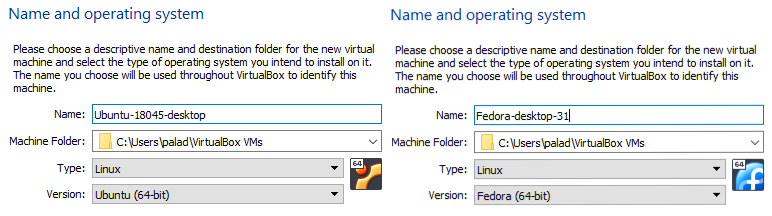
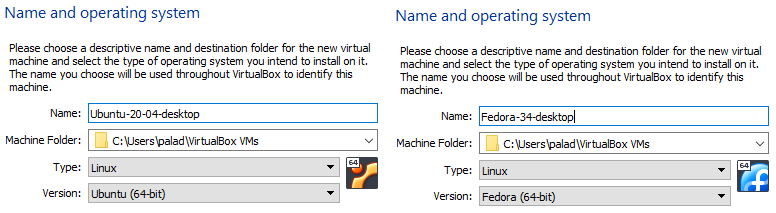
update: placed images in the correct order

diff --git a/Chapter-03/chapter-03.md b/Chapter-03/chapter-03.md
@@ -181,27 +181,31 @@ Upon completion of a fresh install and launching of VirtualBox you should see th
 
 See the [getting started manual](https://www.virtualbox.org/manual/ch01.html "Getting started manual") for a wide range of information.  Unlike some opensource projects this documentation is actually very thorough and useful.  VirtualBox has a list of [supported host operating systems](https://www.virtualbox.org/manual/ch01.html#hostossupport "Supported Host Operating System"), which is basically any operating system you can think of from DOS to Haiku to FreeBSD.
 
-Let us walk through the initial installation process.  The first step to begin is with the *NEW* button.  The next step is where we give our guest virtual machine a name.  VirtualBox has long had support that if you type the type of the operating system in the system name - VirtualBox will auto detect the instance type and version.  If you see the sample below I typed "Ubuntu-18-04-Desktop" and "Fedora-32-workstation." As you type in the title that has the name in it VirtualBox will auto-detect and switch the type and version automatically.  
+Let us walk through the initial installation process.  The first step to begin is with the *NEW* button.  The next step is where we give our guest virtual machine a name.  VirtualBox has long had support that if you type the type of the operating system in the system name - VirtualBox will auto detect the instance type and version.  If you see the sample below I typed "Ubuntu-20-04-Desktop" and "Fedora-34-workstation." As you type in the title that has the name in it VirtualBox will auto-detect and switch the type and version automatically.  
 
 ![*Create New Ubuntu and Fedora Instance Dialogs*](images/Chapter-03/VirtualBox-Install/name-and-operating-system-two.png "Create New Instance Dialog")
 
 What happens if you choose the wrong type or version?  Two things: __first__, if you chose the wrong edition of Linux most things will work but the virtualization layer will not be optimized, try to avoid it.  You can always go back into the *SETTINGS* menu option and change it after the virtual machine is powered off.  __Second__, if you select the wrong version, (32-bit instead of 64-bit) you will receive an error from the BIOS as the operating system loads explaining that it cannot continue.
 
-Next is the amount of memory available - note that this memory is shared with your underlying OS as described with TYPE II hypervisors. Whatever you allocate to this guest VM will be unavailable to the underlying host OS while the guest VM is powered on. Note the slider, each system to install VirtualBox on will have a different slider based on the amount of memory you can allocate.  The recommended amount of memory is at least one gigabyte but more likely two gigabytes will be better.  You can also *"over-provision"* memory by making multiple virtual machines whose memory totals beyond your system's memory by not having them running all at once.
+Next is the amount of memory available - note that this memory is shared with your underlying OS as described with TYPE II hypervisors. Whatever you allocate to this guest VM will be unavailable to the underlying host OS while the guest VM is powered on. Note the slider, each system to install VirtualBox on will have a different slider based on the amount of memory you can allocate.  The recommended amount of memory is at least one gigabyte but more likely two gigabytes will be better.
 
 ![*Memory Selection Dialog*](images/Chapter-03/VirtualBox-Install/memory-size.png "Memory Selection Dialog")
 
-The next step is to select the amount of virtual hard drive allocation.  Here you have a choice of how much hard drive space you will allocate to the guest VM.  This space will be treated as a file by the underlying host OS--allowing for easy migration, export, and even cloning of the guest VM.  
-
-![*Hard disk Allocation*](images/Chapter-03/VirtualBox-Install/file-location-and-size.png "Harddisk allocation")
-
-Next is the hard drive file format.  There are a few competing standards.  If you know you are going to be working in the VirtualBox environment then the default VDI type is sufficient.  If you know you will be transferring this Virtual Machine to another environment: VMware (VMDK), and Microsoft Hyper-V (VHD) then you can choose the appropriate type.
+The next step is the hard drive creation step. In this step we will choose to create a new hard drive now.
 
 ![*Drive Type*](images/Chapter-03/VirtualBox-Install/hard-disk.png "Drive Type")
 
-You can choose to dynamically allocate your hard drive space or statically allocate it.  The advantage of dynamically allocating is that not all the space will be assigned right away.  The hard drive will grow incrementally as you need space until it hits the maximum you defined.  The disadvantage of this is that if you are creating lots of data there will be an overhead processing in continually allocating space.  Statically allocating the hard drive space on the other hand will potentially lessen the number of systems that can go on your hard drive because potentially much space that is allocated is actually unused. Virtual hard drives for the guest OSes are treated as files from the point host OSes.
+Next is the hard drive file format.  There are a few competing standards.  If you know you are going to be working in the VirtualBox environment then the default VDI virtual disk type is sufficient.
+
+![*Hard Disk File Type*](images/Chapter-03/VirtualBox-Install/file-type.png "Hard Disk File Type")
+
+You can choose to dynamically allocate your hard drive space or statically allocate it.  The advantage of dynamically allocating is that not all the space will be assigned right away.  The hard drive will grow incrementally as you need space until it hits the maximum you defined.
 
 ![*Disk Type*](images/Chapter-03/VirtualBox-Install/storage-type.png "Disk Type")
+
+The next step is to select the amount of virtual hard drive allocation.  Here you have a choice of how much hard drive space you will allocate to the guest VM.  This space will be treated as a file by the underlying host OS--allowing for easy migration, export, and even cloning of the guest VM. As a rule of thumb, I generally double the space recommended.
+
+![*Hard disk Allocation*](images/Chapter-03/VirtualBox-Install/file-location-and-size.png "Harddisk allocation")
 
 The final option dialog is where you can choose where to store your virtual machine's virtual hard drive. Usually the default is fine unless you know you need to store the hard drive on a separate partition or disk.   Also VirtualBox will make a suggestion on a recommended virtual hard drive size.
 
@@ -235,7 +239,7 @@ Network
 
 ### Installing Ubuntu
 
-Hitting the *START* button on your virtual machine for Ubuntu 18.04 Desktop will bring you to a screen that asks you to select install media (or ISO file):
+Hitting the *START* button on your virtual machine for Ubuntu 20.04 Desktop will bring you to a screen that asks you to select install media (or ISO file):
 
 ![*Select ISO install media*](images/Chapter-03/ubuntu-install/select-iso.png "Select ISO")
 
